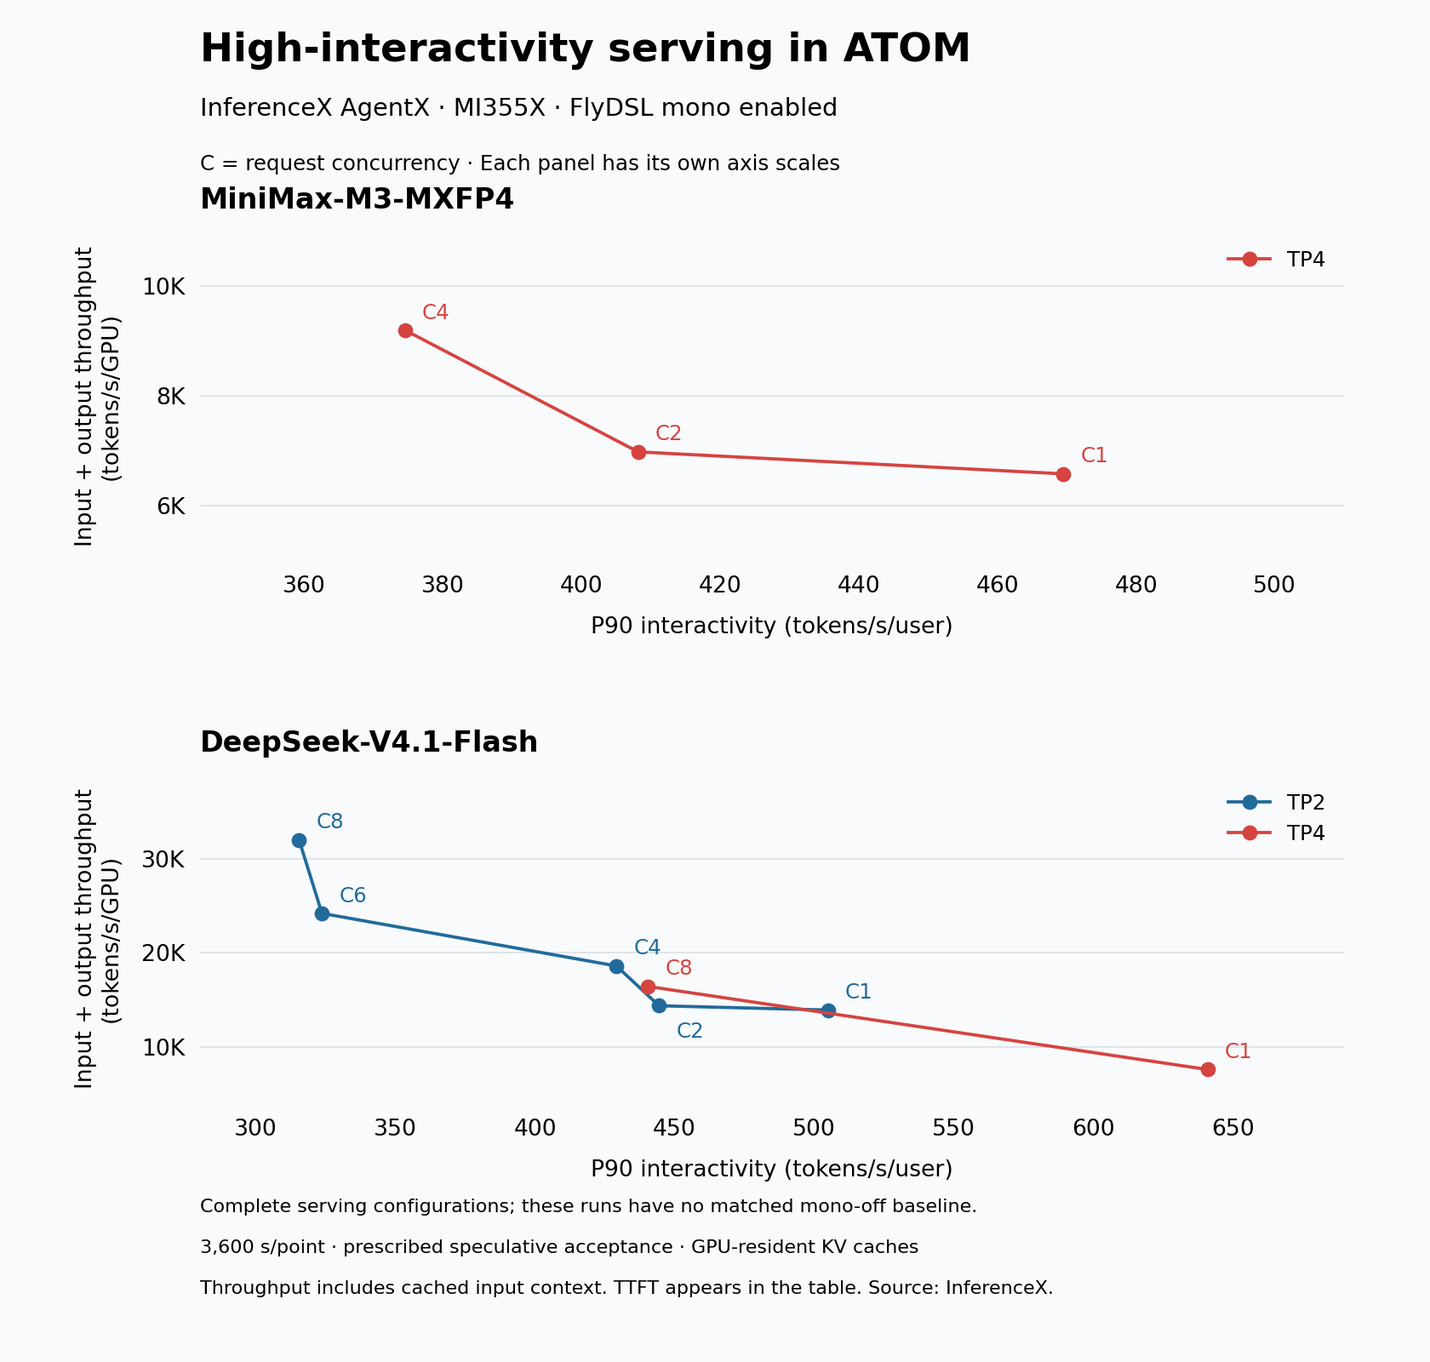
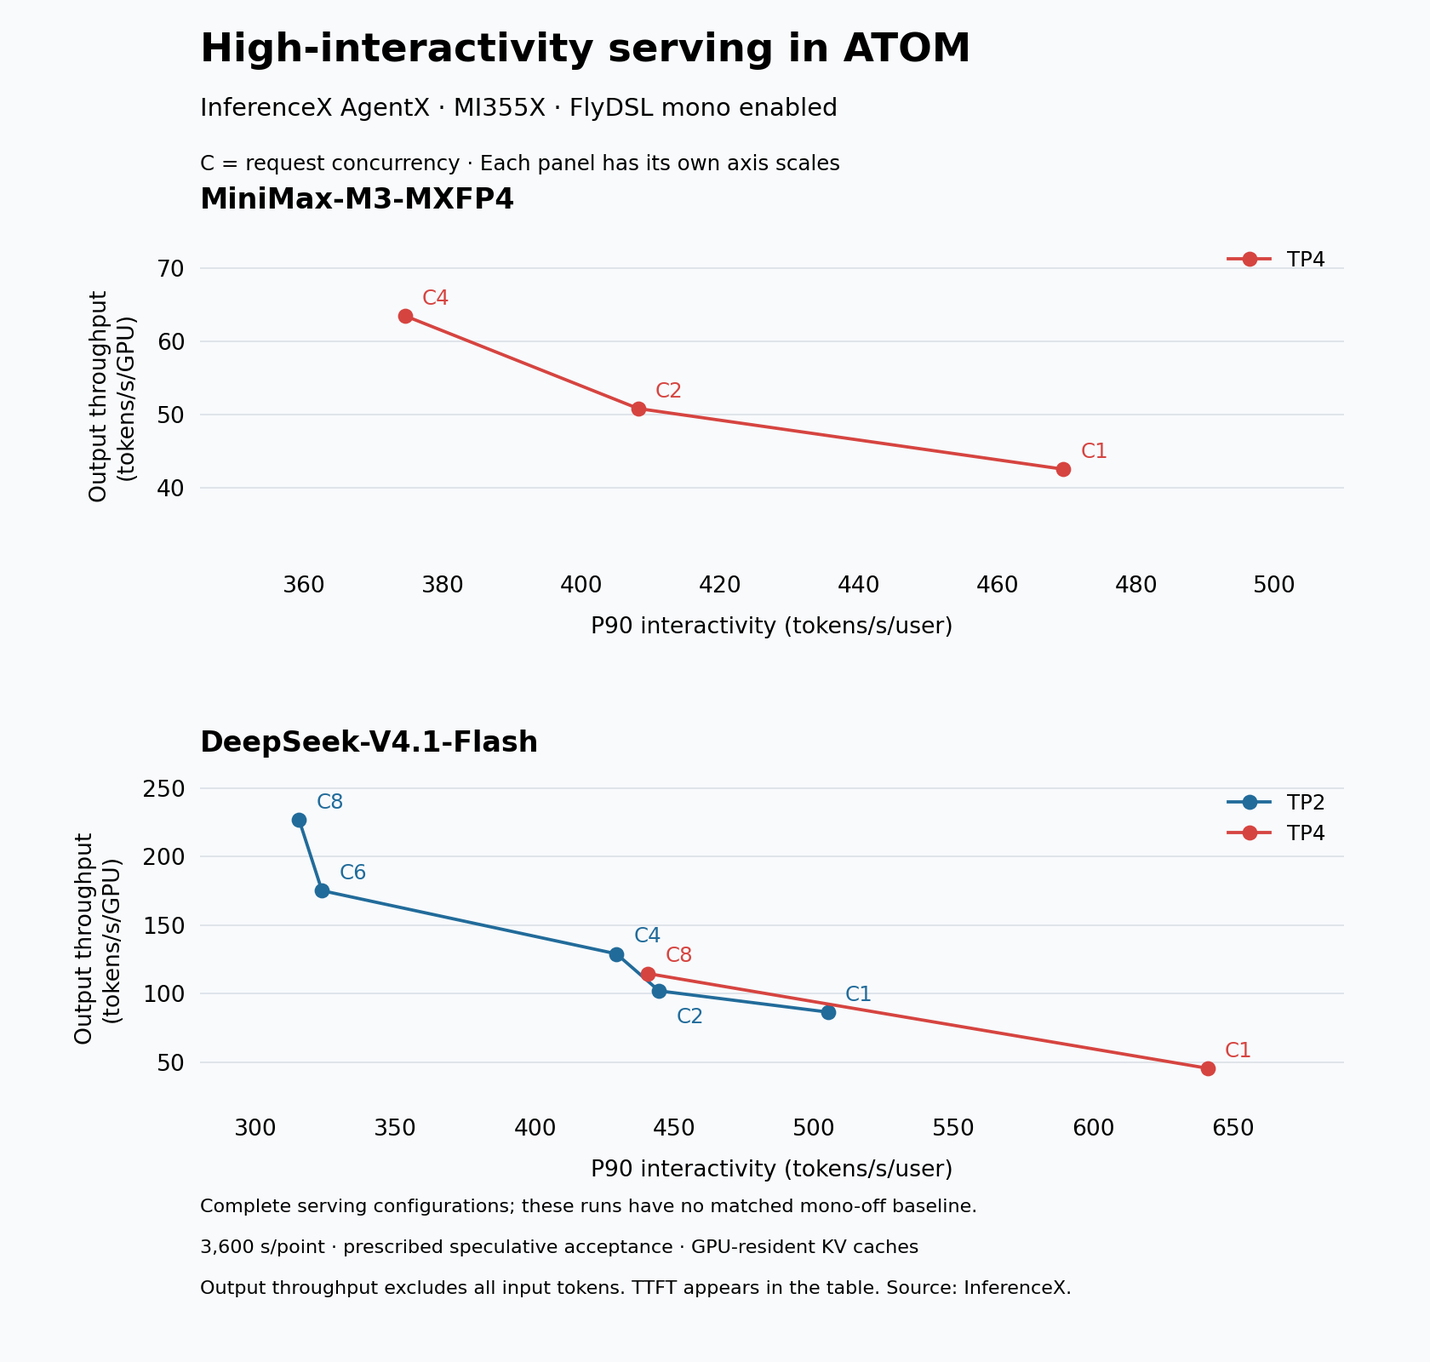
Clarify decode metrics, accuracy, and benchmark limits

diff --git a/blogs/software-tools-optimization/flydsl-atom-mono-kernels/data/plot-vllm-agentx.py b/blogs/software-tools-optimization/flydsl-atom-mono-kernels/data/plot-vllm-agentx.py
@@ -1,6 +1,7 @@
 """Regenerate Figure 5 from mono-benefits.csv. Requires matplotlib."""
 
 import csv
+import math
 import re
 from pathlib import Path
 
@@ -8,7 +9,6 @@ import matplotlib
 
 matplotlib.use("Agg")
 import matplotlib.pyplot as plt
-from matplotlib.ticker import FuncFormatter
 
 ROOT = Path(__file__).resolve().parent
 SOURCE = "https://github.com/vllm-project/vllm/pull/60397"
@@ -17,87 +17,90 @@ with (ROOT / "mono-benefits.csv").open(newline="") as stream:
 
 points = {}
 for row in rows:
-    if row["source"] != SOURCE or "AgentX" not in row["configuration"]:
+    if row["source"] != SOURCE or row["metric"] != "P90 interactivity":
         continue
-    concurrency = int(re.search(r"concurrency (\d+);", row["configuration"])[1])
-    metrics = points.setdefault(concurrency, {})
-    if row["metric"] in metrics:
-        raise ValueError(f"Duplicate {row['metric']} for concurrency {concurrency}")
-    metrics[row["metric"]] = (
-        float(row["baseline_value"]),
-        float(row["optimized_value"]),
-    )
+    match = re.search(r"concurrency (\d+);", row["configuration"])
+    if match is None or row["unit"] != "tokens/s/user":
+        raise ValueError("Expected request concurrency and tokens/s/user")
+    concurrency = int(match[1])
+    if concurrency in points:
+        raise ValueError(f"Duplicate interactivity for concurrency {concurrency}")
+    values = (float(row["baseline_value"]), float(row["optimized_value"]))
+    if not all(math.isfinite(value) and 0 < value < 470 for value in values):
+        raise ValueError("Invalid interactivity or values outside the plot range")
+    points[concurrency] = values
+if set(points) != {1, 2, 4, 8}:
+    raise ValueError("Expected the C1, C2, C4, and C8 mono-off/on comparisons")
 
 plt.rcParams.update({"font.family": "DejaVu Sans", "font.size": 12})
 fig, ax = plt.subplots(figsize=(10.5, 6.6), facecolor="#f8fafc")
-fig.subplots_adjust(left=0.13, right=0.96, top=0.78, bottom=0.30)
+fig.subplots_adjust(left=0.13, right=0.96, top=0.77, bottom=0.30)
 ax.set_facecolor("#f8fafc")
 colors = ("#526274", "#d64440")
-for concurrency, metrics in sorted(points.items()):
-    x0, x1 = metrics["P90 interactivity"]
-    y0, y1 = metrics["total throughput (input + output)"]
+for y, (concurrency, (off, on)) in zip(range(3, -1, -1), sorted(points.items())):
     ax.annotate(
         "",
-        xy=(x1, y1),
-        xytext=(x0, y0),
+        xy=(on, y),
+        xytext=(off, y),
         arrowprops={"arrowstyle": "->", "color": "#a3adb9", "lw": 1.7},
         zorder=1,
     )
-    ax.scatter([x0], [y0], s=64, color=colors[0], zorder=3)
-    ax.scatter([x1], [y1], s=64, color=colors[1], zorder=3)
+    ax.scatter([off], [y], s=64, color=colors[0], zorder=3)
+    ax.scatter([on], [y], s=64, color=colors[1], zorder=3)
     ax.annotate(
-        f"C{concurrency}",
-        (x0, y0),
-        xytext=(-9, -17),
+        f"{off:.1f}",
+        (off, y),
+        xytext=(0, -19),
         textcoords="offset points",
-        ha="right",
+        ha="center",
         color=colors[0],
         fontsize=11,
     )
     ax.annotate(
-        f"C{concurrency}",
-        (x1, y1),
-        xytext=(9, 5),
+        f"{on:.1f}",
+        (on, y),
+        xytext=(0, 10),
         textcoords="offset points",
+        ha="center",
         color=colors[1],
         fontsize=11,
     )
+    ax.text(510, y, f"{on / off:.2f}×", ha="right", va="center", weight="bold")
 
 for color, label in zip(colors, ("Mono off", "FlyDSL mono: K1 + K2 on 30 layers")):
     ax.scatter([], [], s=64, color=color, label=label)
-ax.legend(loc="upper right", frameon=False, fontsize=10)
-ax.set_xlim(190, 465)
-ax.set_ylim(17000, 67000)
-ax.set_yticks([20000, 30000, 40000, 50000, 60000])
-ax.yaxis.set_major_formatter(FuncFormatter(lambda value, _: f"{value / 1000:.0f}K"))
+ax.legend(loc="upper left", bbox_to_anchor=(0, 1.19), frameon=False, fontsize=10)
+ax.set_xlim(0, 520)
+ax.set_ylim(-0.6, 3.55)
+ax.set_yticks([3, 2, 1, 0], ["C1", "C2", "C4", "C8"])
 ax.set_xlabel("P90 interactivity (tokens/s/user) — higher is better", labelpad=12)
-ax.set_ylabel("Input + output throughput (tokens/s)", labelpad=10)
-ax.grid(axis="y", color="#dce2e8", linewidth=0.8)
+ax.set_ylabel("Request concurrency", labelpad=10)
+ax.grid(axis="x", color="#dce2e8", linewidth=0.8)
 ax.set_axisbelow(True)
 for spine in ax.spines.values():
     spine.set_visible(False)
 ax.tick_params(length=0, pad=8)
 fig.text(
-    0.13, 0.93, "Higher interactivity with mono decode", fontsize=20, weight="bold"
+    0.13, 0.94, "Higher interactivity with mono decode", fontsize=20, weight="bold"
 )
-fig.text(0.13, 0.87, "DeepSeek-V4.1-Flash in vLLM · MI355X · TP2", fontsize=13)
+fig.text(0.13, 0.885, "DeepSeek-V4.1-Flash in vLLM · MI355X · TP2", fontsize=13)
 fig.text(
     0.13,
     0.15,
-    "Arrows pair the same concurrency (C1, C2, C4, C8); four measured points, not a full curve.",
+    "Arrows pair mono off and on at each concurrency; labels on the right show the interactivity ratio.",
     fontsize=10,
 )
 fig.text(
     0.13,
     0.11,
-    "Same-node comparison · 3,600 s/point · synthetic DSpark acceptance 3.51",
+    "One 3,600 s run per mode and concurrency · synthetic DSpark acceptance 3.51",
     fontsize=10,
 )
 fig.text(
     0.13,
     0.07,
-    "Throughput includes cached input context. TTFT is reported separately. Source: vLLM #60397.",
+    "Interactivity = 1 / P90 inter-token latency. TTFT is reported separately. Source: vLLM #60397.",
     fontsize=10,
 )
-fig.savefig(ROOT.parent / "images" / "vllm-dsv41-throughput-interactivity.png", dpi=160)
+fig.savefig(ROOT.parent / "images" / "vllm-dsv41-interactivity.png", dpi=160)
 plt.close(fig)

diff --git a/blogs/software-tools-optimization/flydsl-atom-mono-kernels/data/plot-atom-agentx.py b/blogs/software-tools-optimization/flydsl-atom-mono-kernels/data/plot-atom-agentx.py
@@ -8,7 +8,6 @@ import matplotlib
 
 matplotlib.use("Agg")
 import matplotlib.pyplot as plt
-from matplotlib.ticker import FuncFormatter
 
 ROOT = Path(__file__).resolve().parent
 with (ROOT / "atom-agentx.csv").open(newline="") as stream:
@@ -22,8 +21,8 @@ fig, axes = plt.subplots(2, 1, figsize=(10.5, 10), facecolor="#f8fafc")
 fig.subplots_adjust(left=0.14, right=0.94, top=0.83, bottom=0.19, hspace=0.65)
 
 panels = (
-    ("MiniMax-M3-MXFP4", (4,), (345, 510), (5000, 11000), [6000, 8000, 10000]),
-    ("DeepSeek-V4.1-Flash", (2, 4), (280, 690), (4000, 39000), [10000, 20000, 30000]),
+    ("MiniMax-M3-MXFP4", (4,), (345, 510), (30, 75), [40, 50, 60, 70]),
+    ("DeepSeek-V4.1-Flash", (2, 4), (280, 690), (20, 260), [50, 100, 150, 200, 250]),
 )
 for ax, (model, tps, xlim, ylim, ticks) in zip(axes, panels):
     ax.set_facecolor("#f8fafc")
@@ -33,7 +32,7 @@ for ax, (model, tps, xlim, ylim, ticks) in zip(axes, panels):
             key=lambda r: int(r["concurrency"]),
         )
         x = [float(r["p90_interactivity_tokens_per_s_per_user"]) for r in group]
-        y = [float(r["input_output_throughput_tokens_per_s_per_gpu"]) for r in group]
+        y = [float(r["output_throughput_tokens_per_s_per_gpu"]) for r in group]
         if not group or not all(math.isfinite(v) and v > 0 for v in x + y):
             raise ValueError(f"Missing or invalid measurements for {model} TP{tp}")
         if not all(xlim[0] < v < xlim[1] for v in x) or not all(
@@ -59,9 +58,8 @@ for ax, (model, tps, xlim, ylim, ticks) in zip(axes, panels):
     ax.set_xlim(*xlim)
     ax.set_ylim(*ylim)
     ax.set_yticks(ticks)
-    ax.yaxis.set_major_formatter(FuncFormatter(lambda value, _: f"{value / 1000:.0f}K"))
     ax.set_xlabel("P90 interactivity (tokens/s/user)", labelpad=10)
-    ax.set_ylabel("Input + output throughput\n(tokens/s/GPU)", labelpad=10)
+    ax.set_ylabel("Output throughput\n(tokens/s/GPU)", labelpad=10)
     ax.grid(axis="y", color="#dce2e8", linewidth=0.8)
     ax.set_axisbelow(True)
     for spine in ax.spines.values():
@@ -92,7 +90,7 @@ fig.text(
 fig.text(
     0.14,
     0.05,
-    "Throughput includes cached input context. TTFT appears in the table. Source: InferenceX.",
+    "Output throughput excludes all input tokens. TTFT appears in the table. Source: InferenceX.",
     fontsize=10,
 )
 fig.savefig(ROOT.parent / "images" / "atom-throughput-interactivity.png", dpi=160)

diff --git a/blogs/software-tools-optimization/flydsl-atom-mono-kernels/README.md b/blogs/software-tools-optimization/flydsl-atom-mono-kernels/README.md
@@ -98,26 +98,28 @@ Times are median GPU decode-step latency in milliseconds; parentheses show speed
 
 A larger batch gives separate kernels more work to distribute across the GPU and more tokens over which to spread launch overhead. That can reduce the relative benefit of mono, although the balance depends on the model and schedule.
 
+**Task accuracy.** On GSM8K chat 5-shot, the M3 source reports **94.47%** for the original path, **93.71% and 94.24%** for two mono runs, and **93.78%** for mono + CP. These scores are slightly lower than the original path; they do not establish unchanged accuracy. The source also checks layer outputs and index selections. [1]
+
 ### Interactivity results in ATOM
 
 The [InferenceX AgentX](https://inferencex.semianalysis.com/agentx) benchmark replays multi-turn, long-context agent sessions. Its **P90 interactivity is 1 / P90 inter-token latency**, with latency in seconds. Higher values mean faster token generation at the slower end of the request distribution. [14], [15]
 
-The published ATOM results below use **MI355X** with FlyDSL mono decode enabled. The table shows concurrency one (C1); the [supporting measurements](#appendix-supporting-measurements) include the available low-concurrency curves. [16], [17]
+The published ATOM results below use **MI355X** with FlyDSL mono decode enabled. **They have no matched mono-off baseline:** the table describes complete serving configurations, not the gain from enabling mono. It shows concurrency one (C1); the [supporting measurements](#appendix-supporting-measurements) include the available low-concurrency curves. [16], [17]
 
 - **MiniMax-M3-MXFP4, TP4:** EAGLE3 with three draft tokens and synthetic acceptance 2.78, FP8 KV and index caches. [18], [21]
 - **DeepSeek-V4.1-Flash, TP2 and TP4:** DSpark with five draft tokens and synthetic acceptance 3.51, BF16 KV and an FP4 index cache. [19], [21]
 
 Each point uses a **3,600-second profiling window**. These controlled replays do not establish natural acceptance or task accuracy. Both sets use GPU-resident KV caches. Exact recipes, images, acceptance settings, and source records are linked in the [ATOM serving data](data/atom-agentx.csv). [18], [19], [21]
 
-The table reports P90 interactivity in tokens/s/user and P90 time to first token (TTFT) in seconds, at C1.
+The table reports P90 interactivity in tokens/s/user, **output throughput** in generated tokens/s/GPU, and P90 time to first token (TTFT) in seconds. Output throughput counts generated tokens over the profiling window; interactivity describes the pace between tokens once generation starts.
 
-| Model / TP | Interactivity | TTFT |
-| --- | ---: | ---: |
-| M3 / TP4 | **469.5** | 1.13 |
-| V4.1 / TP2 | **505.1** | 1.20 |
-| V4.1 / TP4 | **641.0** | 1.20 |
+| Model / TP | Interactivity | Output | TTFT |
+| --- | ---: | ---: | ---: |
+| M3 / TP4 | **469.5** | 42.5 | 1.13 |
+| V4.1 / TP2 | **505.1** | 86.5 | 1.20 |
+| V4.1 / TP4 | **641.0** | 45.5 | 1.20 |
 
-These measurements show the complete ATOM serving configurations, including scheduling, caching, and speculative decoding. **They do not include a matched mono-off baseline**, so they cannot isolate mono's contribution. The M3 GPU-step comparison above provides that separate evidence. TTFT and tool waits also affect responsiveness; interactivity describes the pace of token generation once it starts.
+The distinction matters: M3's C1 input + output total is **6,580 tokens/s/GPU**, but only **42.5** is output. The total mainly counts input tokens, including cached input, and should not be read as generation speed. Mono targets decode; the M3 GPU-step comparison above measures its contribution directly. These serving results also include scheduling, caching, and speculative decoding. TTFT and tool waits remain part of user responsiveness.
 
 ## Extending FlyDSL mono decode to vLLM
 
@@ -131,11 +133,31 @@ The schedule uses **two FlyDSL mono launches, K1 and K2, per eligible layer and 
 
 *Figure 4. FlyDSL mono decode in vLLM. Conditional operations outside K1 and K2 depend on the layer. [12]*
 
-In vLLM's same-node comparison at **TP2, concurrency one**, enabling K1 + K2 on 30 standard layers raises P90 interactivity from **318.1 to 429.1 tokens/s/user (1.35×)** and input + output throughput from **21,573 to 25,039 tokens/s (1.16×)**. TTFT p90 changes from **1.18 to 1.28 seconds**. Each run uses five-token DSpark with synthetic acceptance 3.51 for 3,600 seconds; this controlled replay measures performance, while task quality is evaluated separately. [11]
+In vLLM's same-node comparison at **TP2, concurrency one**, enabling K1 + K2 on 30 standard layers raises P90 interactivity from **318.1 to 429.1 tokens/s/user (1.35×)**. Each concurrency setting has **one 3,600-second run per mode**, using five-token DSpark with synthetic acceptance 3.51. Figure 5 shows token-generation responsiveness directly. [11]
 
-![DeepSeek-V4.1-Flash in vLLM on MI355X TP2: mono-off/on arrows show higher P90 interactivity and throughput at concurrency 1, 2, 4, and 8](images/vllm-dsv41-throughput-interactivity.png)
+![DeepSeek-V4.1-Flash in vLLM on MI355X TP2: mono-off/on arrows show 1.35, 1.28, 1.15, and 1.14 times P90 interactivity at concurrency 1, 2, 4, and 8](images/vllm-dsv41-interactivity.png)
 
-*Figure 5. Each arrow connects mono off to mono on at the same request concurrency. Moving right means higher interactivity; moving up means higher throughput. Throughput is per server and includes cached input. These four measured pairs do not establish the full curve. [11]*
+*Figure 5. Each arrow connects mono off to mono on at the same request concurrency. Moving right means faster token generation. Labels show the interactivity ratio; these four pairs do not establish the full scaling curve. [11]*
+
+**TTFT does not improve consistently.** P90 TTFT, in seconds, changes as follows in the same runs: [11]
+
+| Concurrency | Mono off | Mono on |
+| ---: | ---: | ---: |
+| 1 | 1.18 | 1.28 |
+| 2 | 1.10 | 1.08 |
+| 4 | 1.27 | 1.26 |
+| 8 | 1.01 | 1.08 |
+
+TTFT rises at C1 and C8 and falls at C2 and C4. With one run per mode at each concurrency, these observations do not establish a repeatable TTFT change.
+
+**Task accuracy.** A separate TP2 evaluation in the same PR uses actual DSpark block rejection, thinking enabled, temperature 0.6, and eight concurrent requests. GPQA-Diamond uses eight samples per question; AIME25 uses sixteen. The table reports pass@1 percentages after the source's synchronization fix; ± is the standard error across questions. [11]
+
+| Task | Mono off | Mono on |
+| --- | ---: | ---: |
+| GPQA-Diamond | 85.3 ± 2.2 | 85.1 ± 2.2 |
+| AIME25 | 99.4 ± 0.3 | 98.3 ± 0.8 |
+
+These finite task evaluations do not prove equal accuracy. They are separate from the synthetic-acceptance performance replay.
 
 FlyDSL mono decode also extends to **SGLang**. [22], [23]
 
@@ -143,8 +165,8 @@ FlyDSL mono decode also extends to **SGLang**. [22], [23]
 
 A fused kernel keeps more work and state in one program. Register and shared-memory use must leave enough thread blocks able to run at once. That resource budget is part of schedule design and can limit how much work to combine. [3], [7]
 
-- **Workload fit.** Short, dependent kernels at small batch sizes offer opportunities to reduce waits. Benefits depend on the model, context length, and batch size; profile the workload you intend to serve.
-- **Supported configurations.** Each schedule targets particular GPU architectures, TP sizes, and decode shapes. The engine must check eligibility and provide a fallback for other steps. [1], [11], [12]
+- **Where gains shrink.** M3's GPU-step speedup falls from 1.64× at batch one to 1.16× at batch four; vLLM's interactivity gain falls from 1.35× at C1 to 1.14× at C8. A separate vLLM FFN-only layer test is already near parity at TP2/C8: **345 → 342 µs (1.01×)** at 48 token rows. The cited full-model comparisons do not locate a 1.0× crossover. [1], [11]
+- **When mono takes over.** Dispatch checks the model, GPU, TP size, layouts, and step metadata. In the cited revisions, M3 supports up to **16 token rows** per step; ATOM and vLLM V4.1 support up to **48**. Rows include speculative tokens: one request with five drafts can use six rows. The vLLM path requires decode-only steps, supported cache metadata, and eager execution or full graph replay. Larger or unsupported steps use the standard path, with every TP rank making the same choice. These coverage limits are not measured break-even thresholds. [1], [3], [11], [20]
 - **Development cost.** Developers tailor and validate schedules for each model and keep them in sync with model changes. Correctness checks and task evaluations are part of that work. [11]
 
 ## Build a mono path for your model
@@ -169,11 +191,11 @@ At 1M context, TP4, 16 token rows, and four query rows per request, the [layer m
 
 ![ATOM AgentX results on MI355X with mono enabled: MiniMax-M3 TP4 and DeepSeek-V4.1-Flash TP2/TP4 across selected concurrency settings; no mono-off baseline](images/atom-throughput-interactivity.png)
 
-*Figure 7. ATOM throughput and interactivity with mono enabled. Lines connect different concurrency settings within one model and TP configuration; they do not show mono-off/on gains. Throughput is input + output tokens/s/GPU, including cached input. [16], [17]*
+*Figure 7. ATOM output throughput and interactivity with mono enabled. Lines connect different concurrency settings within one model and TP configuration; they do not show mono-off/on gains. Throughput counts generated tokens only, per GPU. [16], [17]*
 
-M3 delivers **469.5 tokens/s/user at C1** and **374.5 at C4**, while throughput rises from **6,580 to 9,201 tokens/s/GPU**. DeepSeek-V4.1-Flash at TP2 delivers **505.1 tokens/s/user at C1** and **315.5 at C8**, with throughput rising from **13,915 to 32,005 tokens/s/GPU**. Use both axes to choose a configuration that meets your application's responsiveness needs. [16], [17]
+M3 delivers **469.5 tokens/s/user at C1** and **374.5 at C4**, while output throughput rises from **42.5 to 63.5 tokens/s/GPU**. DeepSeek-V4.1-Flash at TP2 delivers **505.1 tokens/s/user at C1** and **315.5 at C8**, with output throughput rising from **86.5 to 226.7 tokens/s/GPU**. Use both axes to choose a configuration that meets your application's responsiveness needs. [16], [17]
 
-**Additional vLLM measurements.** The [comparison CSV](data/mono-benefits.csv) records the TP2 mono-off/on results at C1, C2, C4, and C8, including TTFT; the [Figure 5 script](data/plot-vllm-agentx.py) reads those values directly. [11] The later **541.6 → 562.6 P90 tokens/s/user (+3.9%)** result at TP4/C1 compares two mono versions as coverage expands to all 40 backbone layers. Both use synthetic DSpark acceptance 3.51 and one 3,600-second run per version. [12]
+**Additional vLLM measurements.** The [comparison CSV](data/mono-benefits.csv) records the TP2 mono-off/on results at C1, C2, C4, and C8, including TTFT; the [Figure 5 script](data/plot-vllm-agentx.py) reads the interactivity values directly. The CSV retains input + output totals, which include cached input and are not output throughput. [11] The later **541.6 → 562.6 P90 tokens/s/user (+3.9%)** result at TP4/C1 compares two mono versions as coverage expands to all 40 backbone layers. It comes from **one 3,600-second run per version**, using synthetic DSpark acceptance 3.51 on two separate four-GPU groups. It does not establish repeatability across runs. [12]
 
 **Validation and additional models.** The M3 and vLLM sources include correctness checks and task evaluations; vLLM evaluates quality separately with actual rejection sampling. [1], [11], [12] The [comparison CSV](data/mono-benefits.csv) also includes historical GLM-5 and Kimi-K3 layer tests, separate from ATOM serving results. [5] The cited Kimi-K3 serving results lack task-level accuracy and have a [confirmed DSpark auxiliary-state capture issue](https://github.com/ROCm/ATOM/pull/2535#discussion_r4266162046), so they are excluded here. [13]
 
@@ -186,7 +208,7 @@ M3 delivers **469.5 tokens/s/user at C1** and **374.5 at C4**, while throughput 
 3. [ATOM's M3 mono implementation](https://github.com/ROCm/ATOM/tree/2b9f3412e466fd4172a4a621fe9215a1041130c1/atom/models/minimax_m3/mono).
 4. [ATOM inference engine](https://github.com/ROCm/ATOM).
 5. [FlyDSL: GLM-5 and Kimi-K3 mono work](https://github.com/ROCm/FlyDSL/pull/1204).
-6. [TileRT source cited by FlyDSL](https://github.com/SemiAnalysisAI/InferenceX/tree/8ac98344b038a3f2da20a565fe9b974772a67ef9).
+6. [TileRT](https://github.com/tile-ai/TileRT).
 7. [M3 device primitives and tagged mailboxes](https://github.com/ROCm/ATOM/blob/2b9f3412e466fd4172a4a621fe9215a1041130c1/atom/models/minimax_m3/mono/kernels/common.py).
 8. [ATOM: DeepSeek-V4.1 and shared mono components](https://github.com/ROCm/ATOM/pull/2479).
 9. [M3 task scheduling](https://github.com/ROCm/ATOM/blob/2b9f3412e466fd4172a4a621fe9215a1041130c1/atom/models/minimax_m3/mono/layout.py).
@@ -210,7 +232,7 @@ M3 delivers **469.5 tokens/s/user at C1** and **374.5 at C4**, while throughput 
 [3]: https://github.com/ROCm/ATOM/tree/2b9f3412e466fd4172a4a621fe9215a1041130c1/atom/models/minimax_m3/mono
 [4]: https://github.com/ROCm/ATOM
 [5]: https://github.com/ROCm/FlyDSL/pull/1204
-[6]: https://github.com/SemiAnalysisAI/InferenceX/tree/8ac98344b038a3f2da20a565fe9b974772a67ef9
+[6]: https://github.com/tile-ai/TileRT
 [7]: https://github.com/ROCm/ATOM/blob/2b9f3412e466fd4172a4a621fe9215a1041130c1/atom/models/minimax_m3/mono/kernels/common.py
 [8]: https://github.com/ROCm/ATOM/pull/2479
 [9]: https://github.com/ROCm/ATOM/blob/2b9f3412e466fd4172a4a621fe9215a1041130c1/atom/models/minimax_m3/mono/layout.py
